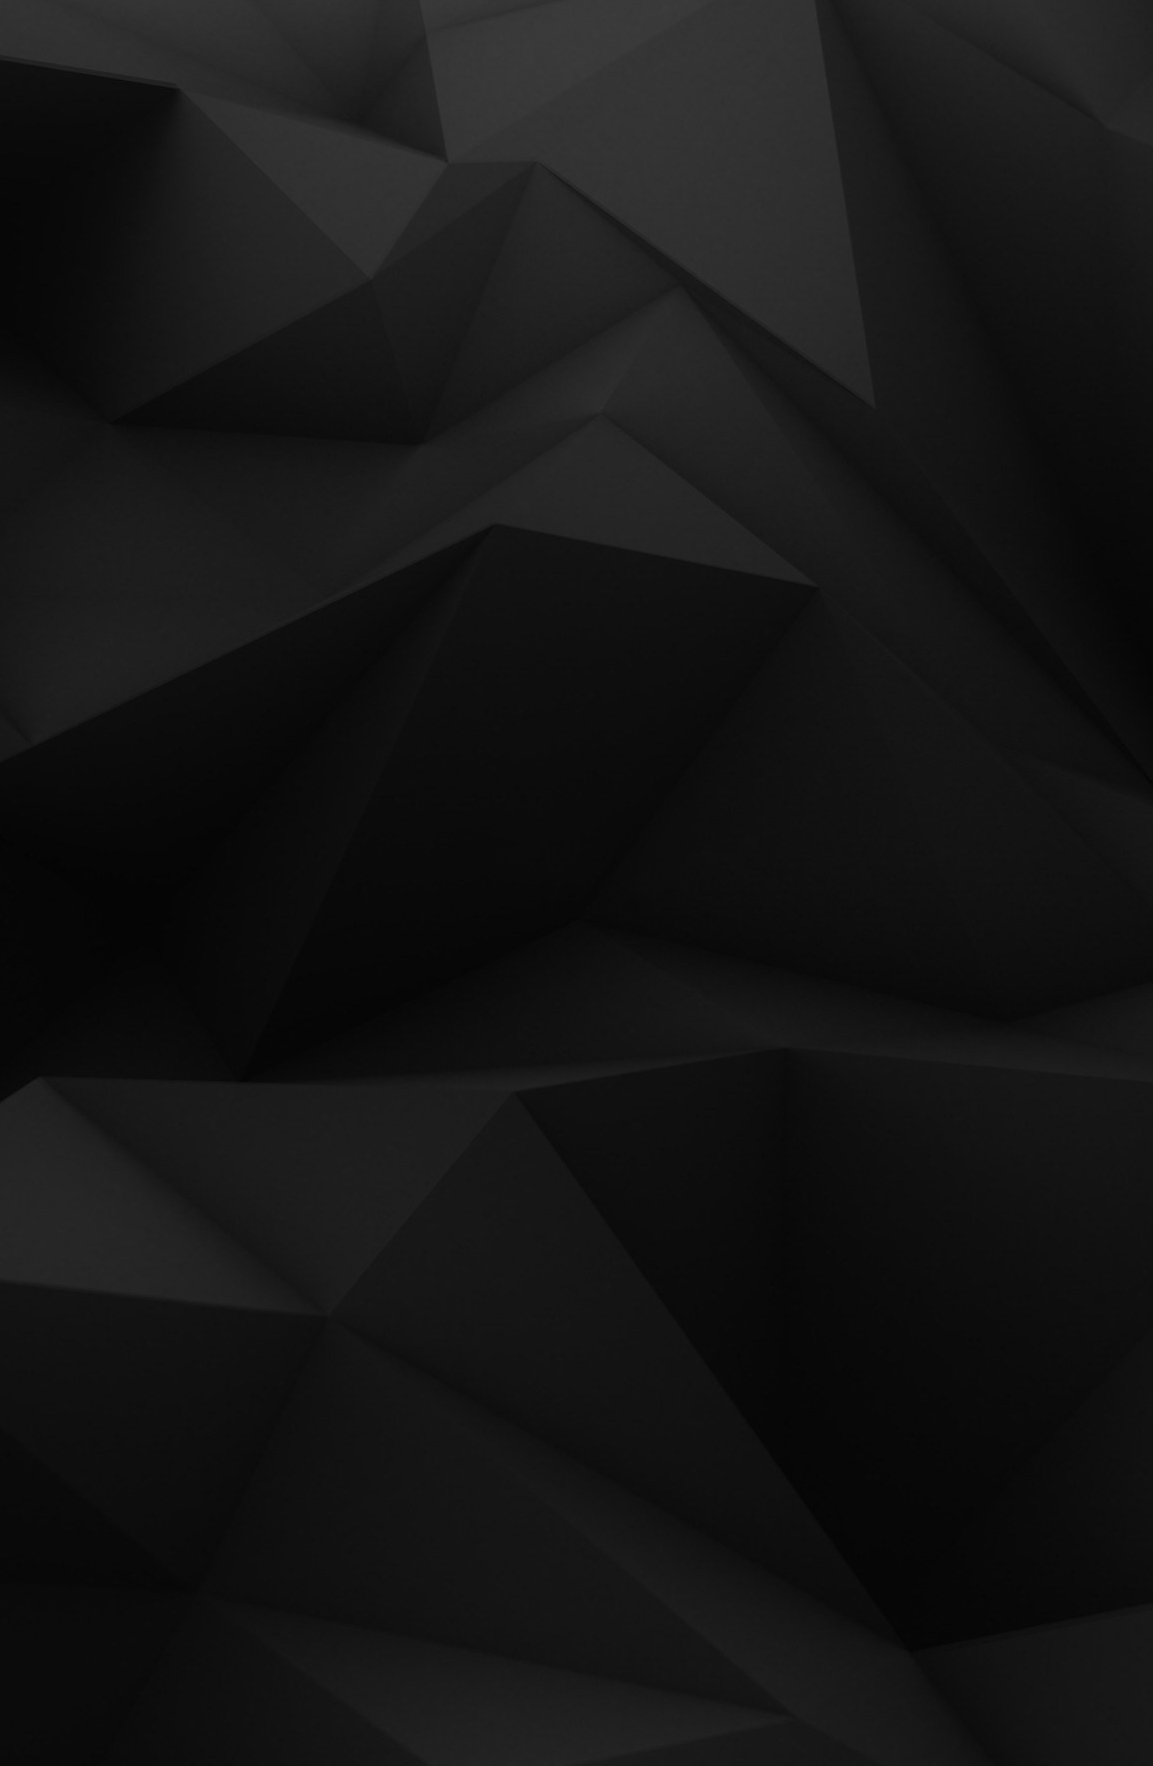
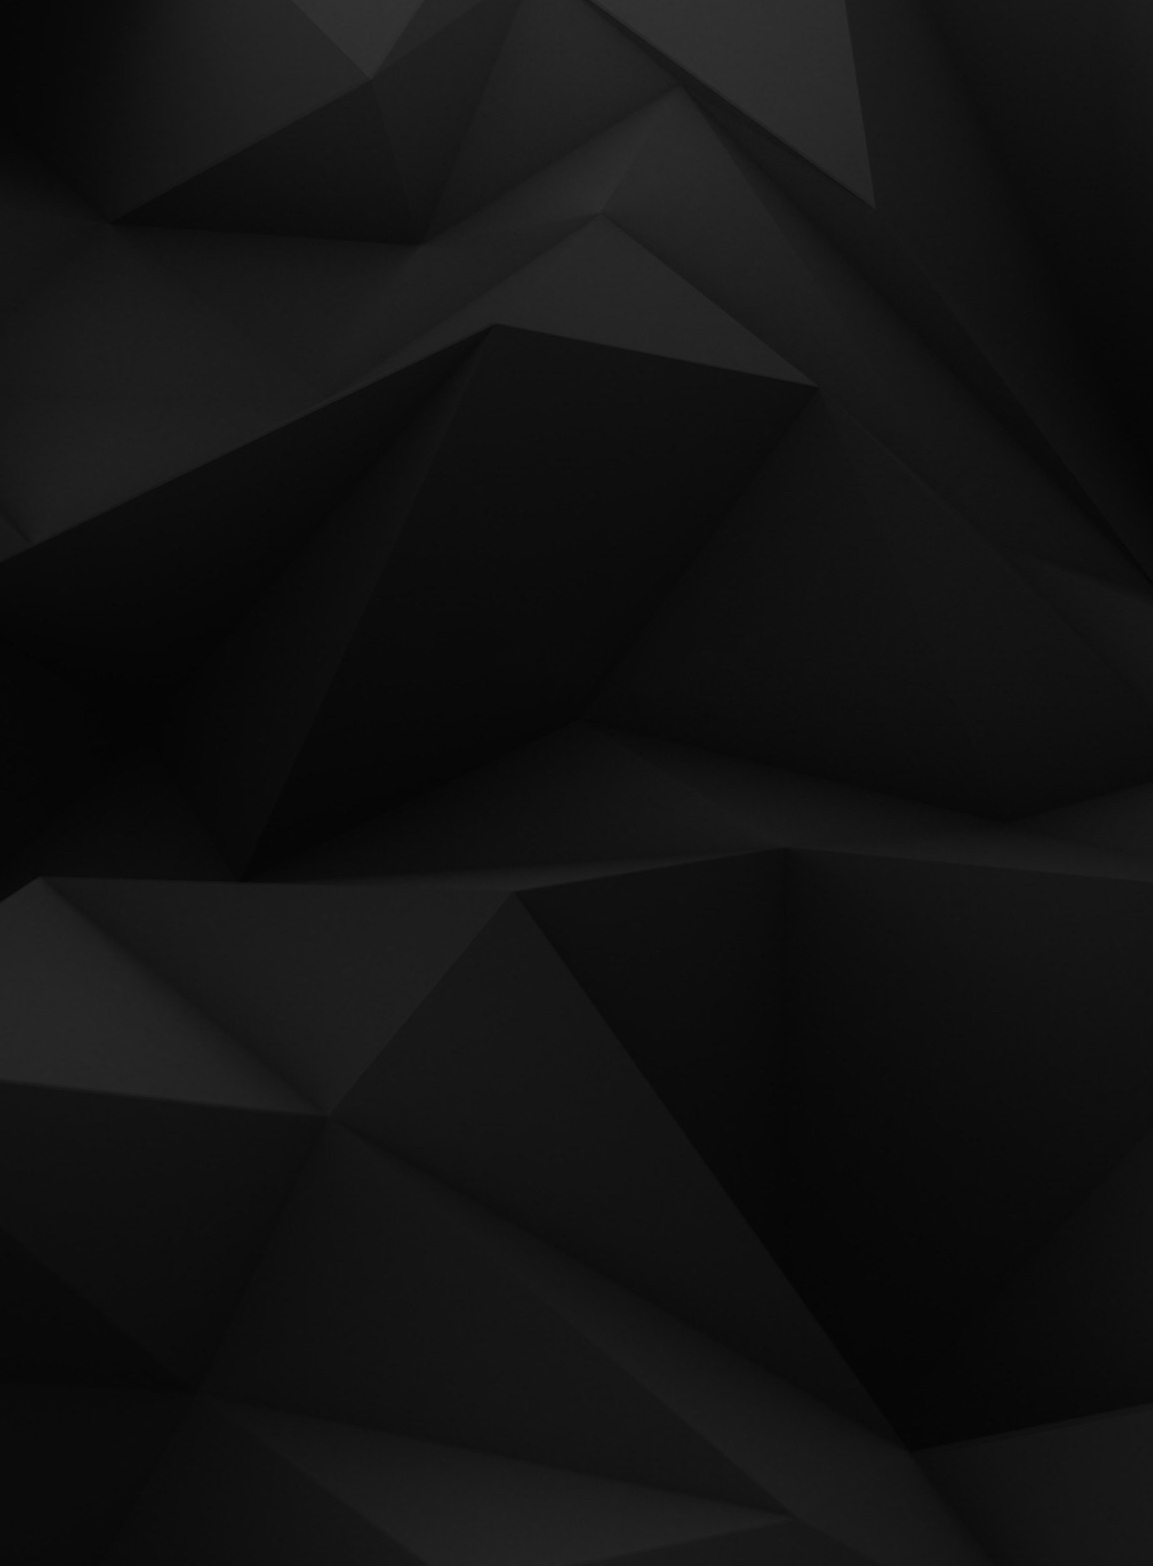
updates

diff --git a/styles.css b/styles.css
@@ -165,7 +165,7 @@ footer {
   min-height: 100%;
   left: 0;
   right: 0;
-  padding: 0.5rem 0 0 0;
+  padding: 0;
   margin: 0;
 }
 .footer-box {
@@ -187,18 +187,11 @@ footer {
   background-size: cover;
   background-position: top;
   background-repeat: no-repeat;
-  background-attachment: fixed;
   display: grid;
   columns: 2;
   column-gap: 2rem;
   padding: 6rem 2rem;
   margin: 3rem 0 0 0;
-}
-@supports (-webkit-touch-callout: none) {
-  .about-container {
-    background: url("resources/bg-small.jpg") center top no-repeat scroll;
-    background-size: auto 100vh;
-  }
 }
 .background img {
   max-width: 100%;
@@ -246,6 +239,10 @@ footer {
 }
 @media screen and (max-width: 780px) {
   .about-container {
+    background-image: url(resources/bg-small.jpg);
+    background-size: cover;
+    background-position: top;
+    background-repeat: no-repeat;
     display: flex;
     flex-direction: column;
     align-items: flex-start;
@@ -357,6 +354,10 @@ footer {
 
 /* Contact Section */
 .contact-container {
+  background-image: url(resources/bg.jpg);
+  background-size: cover;
+  background-position: top;
+  background-repeat: no-repeat;
   display: flex;
   justify-content: center;
   align-items: center;
@@ -388,6 +389,7 @@ footer {
 }
 @media screen and (max-width: 780px) {
   .contact-container {
+    background-image: url(resources/bg-small.jpg);
     padding: 3rem 0.5rem 3rem 0.5rem;
   }
   .contact-box {
